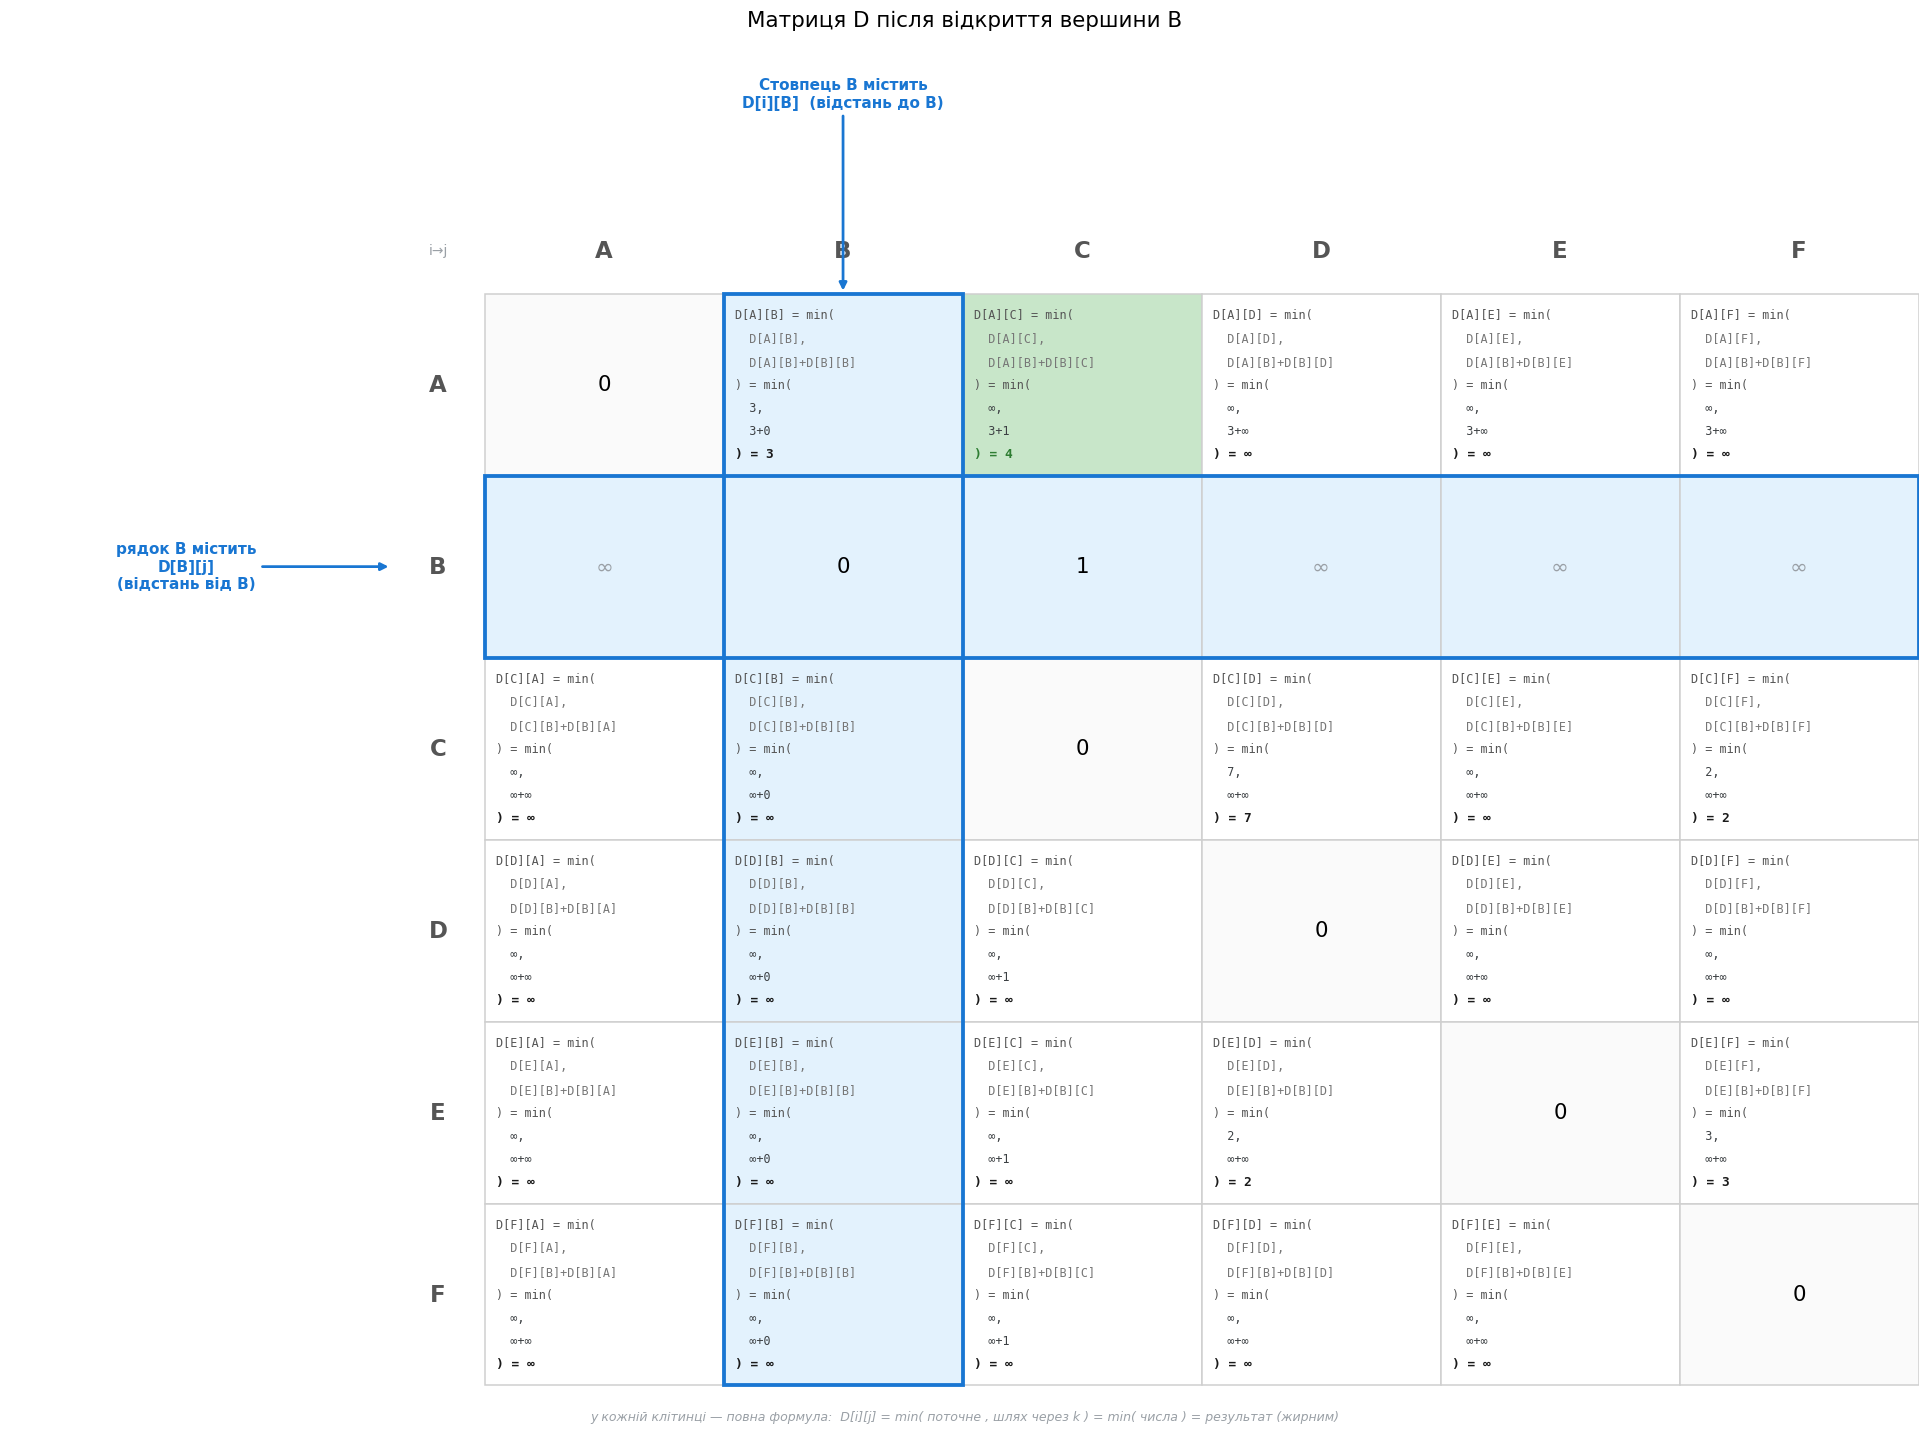
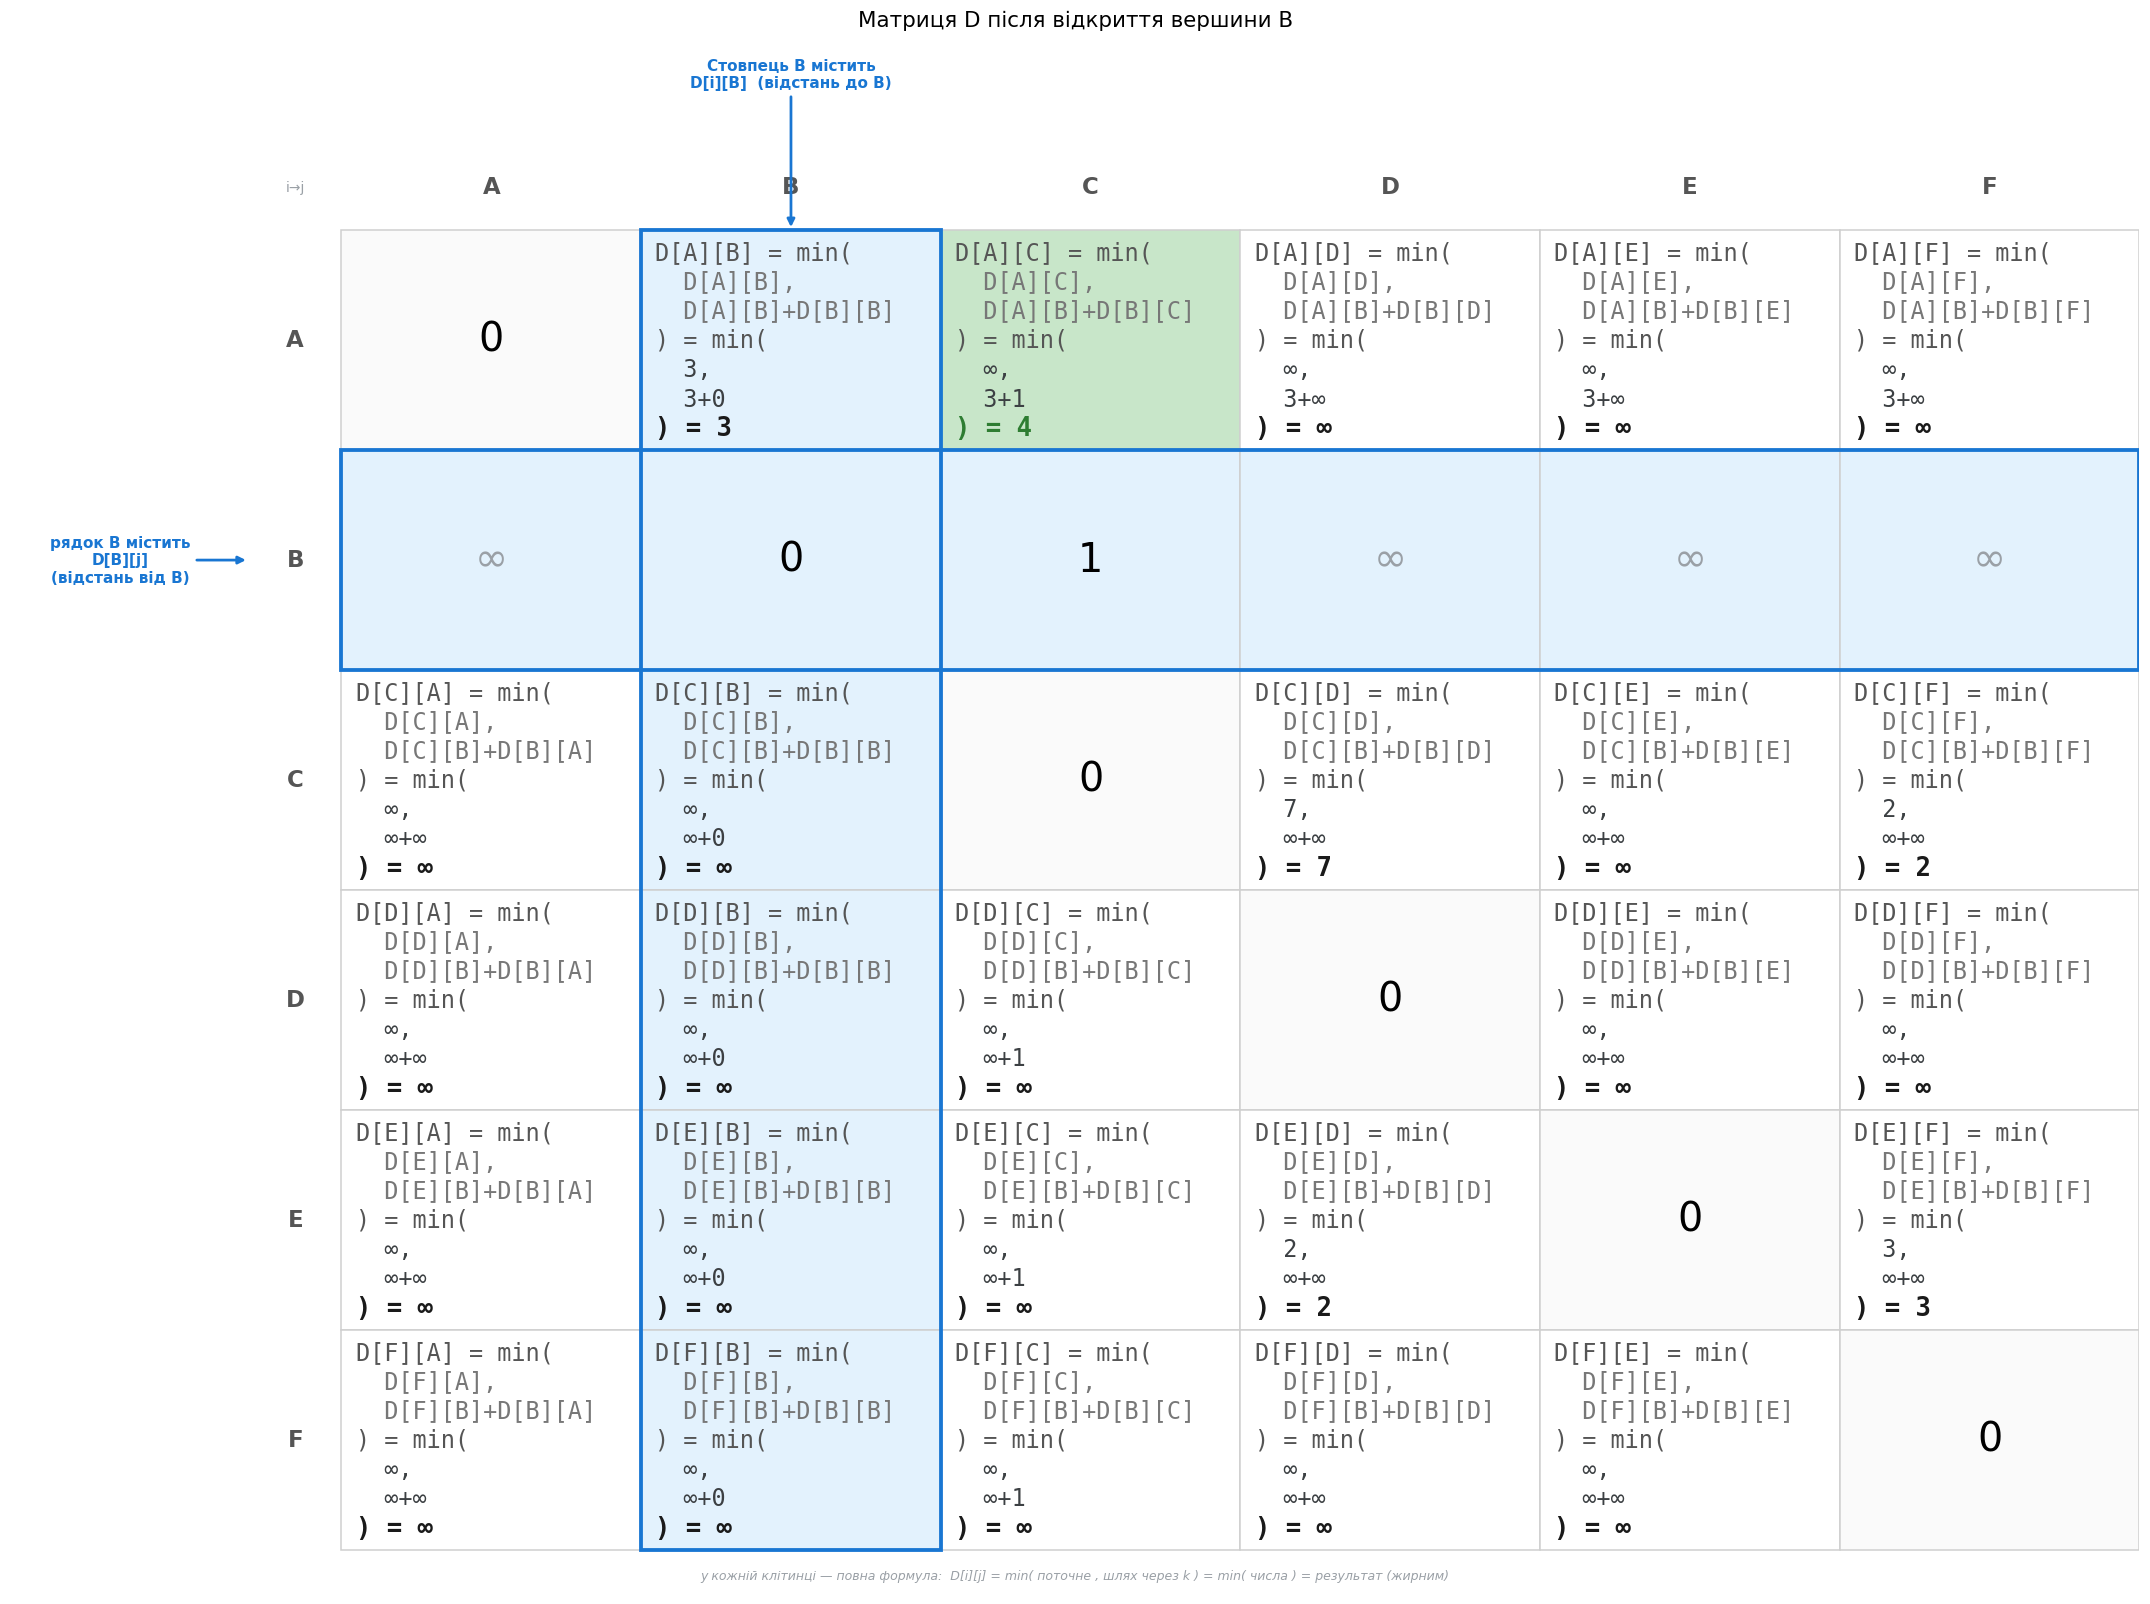
viz: збільшити шрифт формул і зменшити поля на покрокових кадрах
draw_floyd_step: шрифт формул у комірках збільшено вдвічі (7.7/8.4 → 15.4/16.8),
значення — 14 → 26; ліве/верхнє поле зменшено (left_pad 4.3 → 2.7, top_pad 1.9 → 1.15);
комірки й міжрядковий інтервал збільшено, щоб умістити крупніший текст.
Перегенеровано всі рисунки в docs/images/.

diff --git a/floyd_warshall/visualization.py b/floyd_warshall/visualization.py
@@ -277,7 +277,7 @@ def draw_floyd_step(
     prev: Optional[List[List[float]]] = None,
     changed: Optional[Set[Tuple[int, int]]] = None,
     title: Optional[str] = None,
-    cell_w: float = 2.7,
+    cell_w: float = 3.4,
 ):
     """Детальний кадр кроку Флойда–Воршала.
 
@@ -300,8 +300,8 @@ def draw_floyd_step(
         prev = matrix
     n = len(labels)
 
-    cell_h, header_w, header_h = 2.12, 1.05, 1.0
-    left_pad, top_pad, bot_pad = 4.3, 1.9, 0.6
+    cell_h, header_w, header_h = 2.55, 1.05, 1.0
+    left_pad, top_pad, bot_pad = 2.7, 1.15, 0.5
     xs = [left_pad + header_w + j * cell_w for j in range(n)]
     total_w = left_pad + header_w + n * cell_w
     total_h = top_pad + header_h + n * cell_h + bot_pad
@@ -361,15 +361,15 @@ def draw_floyd_step(
                     (f"  {_sum_expr(dik, dkj)}", TEXT_FORMULA, "normal"),
                     (f") = {format_value(res)}", GREEN_TXT if improved else TEXT_RESULT, "bold"),
                 ]
-                dy = 0.27
+                dy = 0.34
                 y_start = row_yc(i) - dy * (len(lines) - 1) / 2
                 for t, (txt, col, w) in enumerate(lines):
-                    ax.text(x0 + 0.13, y_start + t * dy, txt, ha="left", va="center",
-                            fontsize=8.4 if w == "bold" else 7.7, family="monospace", color=col, fontweight=w)
+                    ax.text(x0 + 0.16, y_start + t * dy, txt, ha="left", va="center",
+                            fontsize=16.8 if w == "bold" else 15.4, family="monospace", color=col, fontweight=w)
             else:
                 v = matrix[i][j]
                 ax.text(cell_xc(j), row_yc(i), format_value(v), ha="center", va="center",
-                        fontsize=14, color=MUTED_TXT if v == INF else "black")
+                        fontsize=26, color=MUTED_TXT if v == INF else "black")
 
     # рамка навколо рядка k та стовпця k
     ax.add_patch(plt.Rectangle((xs[0], row_top(k)), total_w - xs[0], cell_h, fill=False, edgecolor=BLUE_EDGE, linewidth=2.5))
